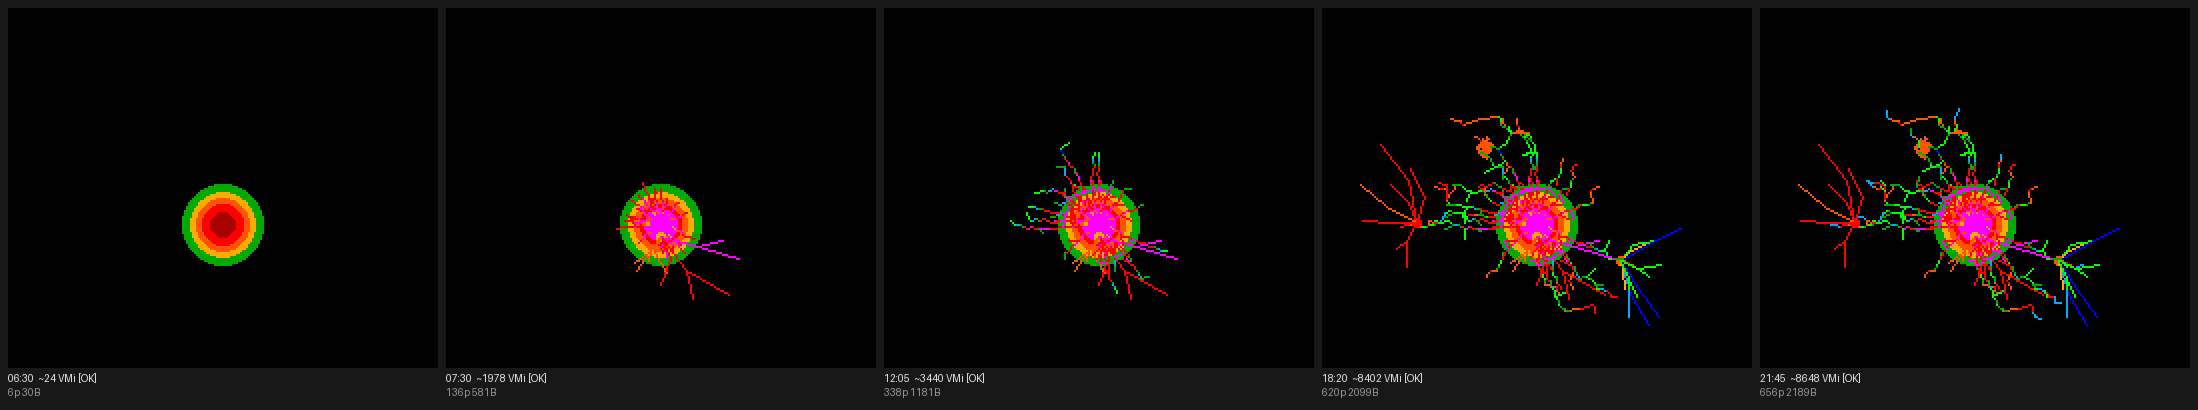
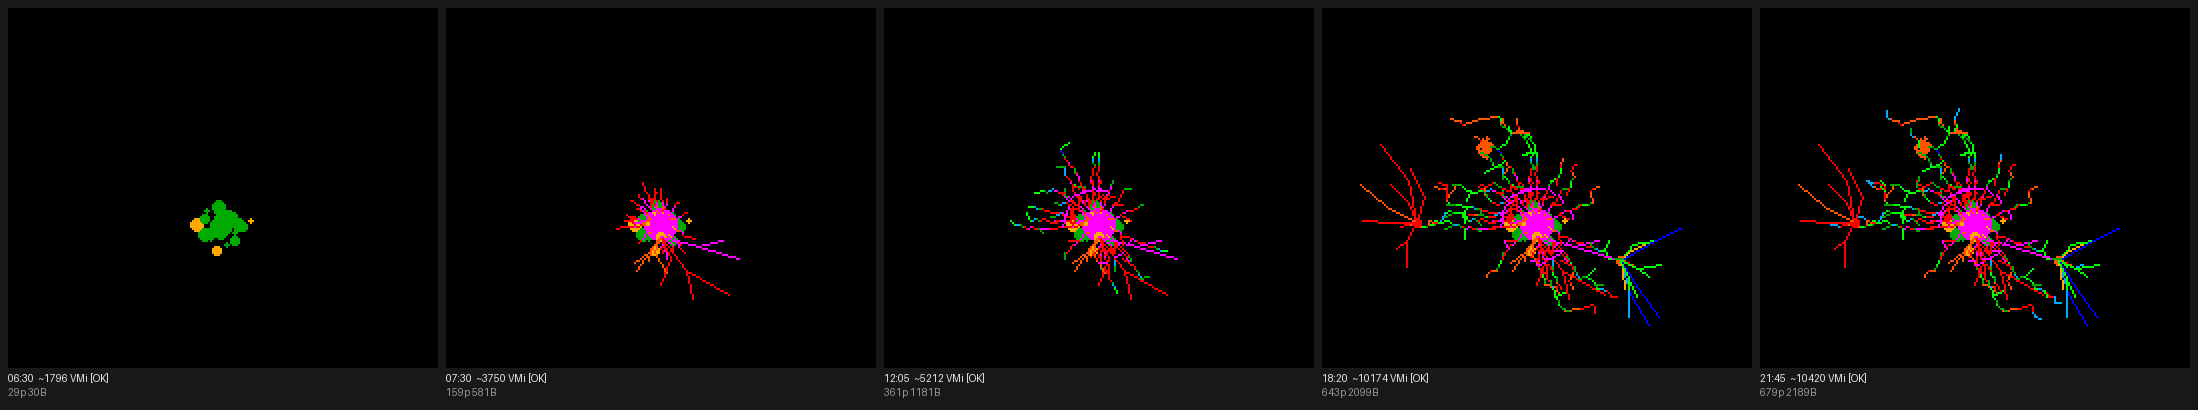
sketches: tune spores seed into a dense centred colony clump
Chosen morning-seed style. Bias node radius inward (min of two hashes), add a
filled anchor core, more cells, cool one ramp step toward the rim -- reads as a
small colony blob that grows + cools with sleep instead of a sparse sprinkle.
Set it as the default SEED_STYLE.

diff --git a/sketches/algos/biobloom_morning.py b/sketches/algos/biobloom_morning.py
@@ -126,7 +126,7 @@ def sleep_dim(sleep_h):
 
 # Seed-colony geometry. Kept deliberately SMALL (the user wants a small colony,
 # not a full dish) -- the day's activity still grows the real colony out past it.
-SEED_STYLE = "rings"   # rings | rosette | spores | bud
+SEED_STYLE = "spores"  # rings | rosette | spores | bud
 SEED_R0 = 6            # core radius at the shortest night
 SEED_PER_H = 2         # +px of seed reach per hour slept
 SEED_RMAX = 30         # the morning bud never exceeds this (stays "small")
@@ -522,19 +522,25 @@ class BioBloom:
                             CY + idiv(rout * isin(a), 127))
                 k += 1
         elif style == "spores":
-            # a little scatter colony: nodes packed near the centre, more of them
-            # the longer the night; deeper-rest colour near the middle.
-            nodes = 4 + self.sleep_h * 2
+            # a little scatter colony -- a dense clump of cells packed around the
+            # centre, more of them the longer the night, deepest-rest colour in
+            # the middle and cooling out one ramp step toward the rim. Radius is
+            # weighted INWARD (two hashes, min) so it reads as a colony blob, not
+            # a sparse sprinkle, and a filled core anchors the middle.
+            dc.setColor(SLEEP_RAMP[si], COLOR_BLACK)
+            dc.fillCircle(CX, CY, 3)                   # anchor core
+            nodes = 7 + self.sleep_h * 3
             k = 0
             while k < nodes:
-                # even angular spread + hashed radius -> a round, centred cluster
-                a = imod(idiv(k * 256, nodes) + imod(hash16(91, k, 6), 40), 256)
-                rr = 2 + imod(hash16(73, k, 2), reach - 1)
+                a = imod(idiv(k * 256, nodes) + imod(hash16(91, k, 6), 36), 256)
+                r1 = imod(hash16(73, k, 2), reach)
+                r2 = imod(hash16(29, k, 4), reach)
+                rr = 2 + (r1 if r1 < r2 else r2)       # bias toward the centre
                 x = CX + idiv(rr * isin(a + 64), 127)
                 y = CY + idiv(rr * isin(a), 127)
-                ci = si if rr < idiv(reach, 2) else (si - 2 if si >= 2 else 0)
+                ci = si if rr < idiv(reach * 2, 3) else (si - 1 if si >= 1 else 0)
                 dc.setColor(SLEEP_RAMP[ci], COLOR_BLACK)
-                dc.fillCircle(x, y, 1 + imod(hash16(7, k, 3), 2))
+                dc.fillCircle(x, y, 1 + imod(hash16(7, k, 3), 3))
                 k += 1
         else:  # "bud" -- understated: halo + node
             dc.setColor(sleep_dim(self.sleep_h), COLOR_BLACK)
